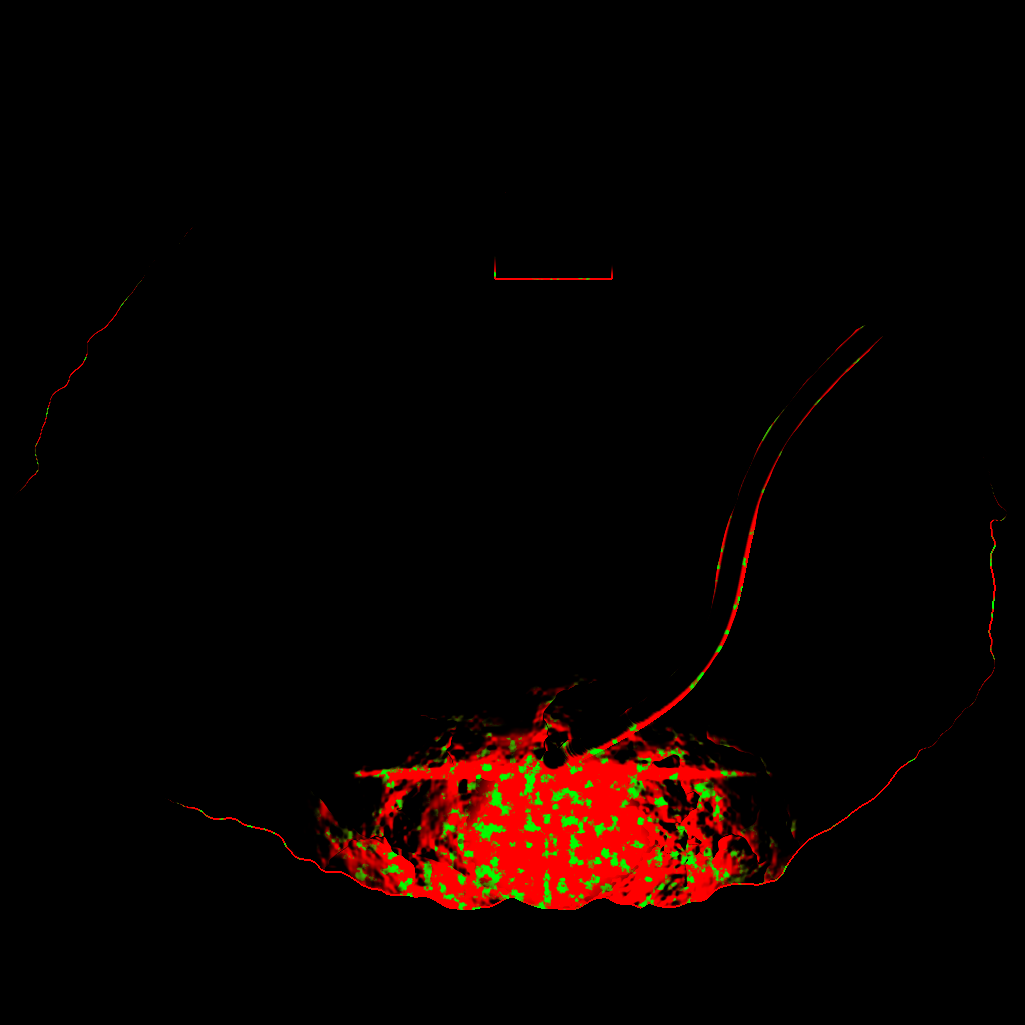
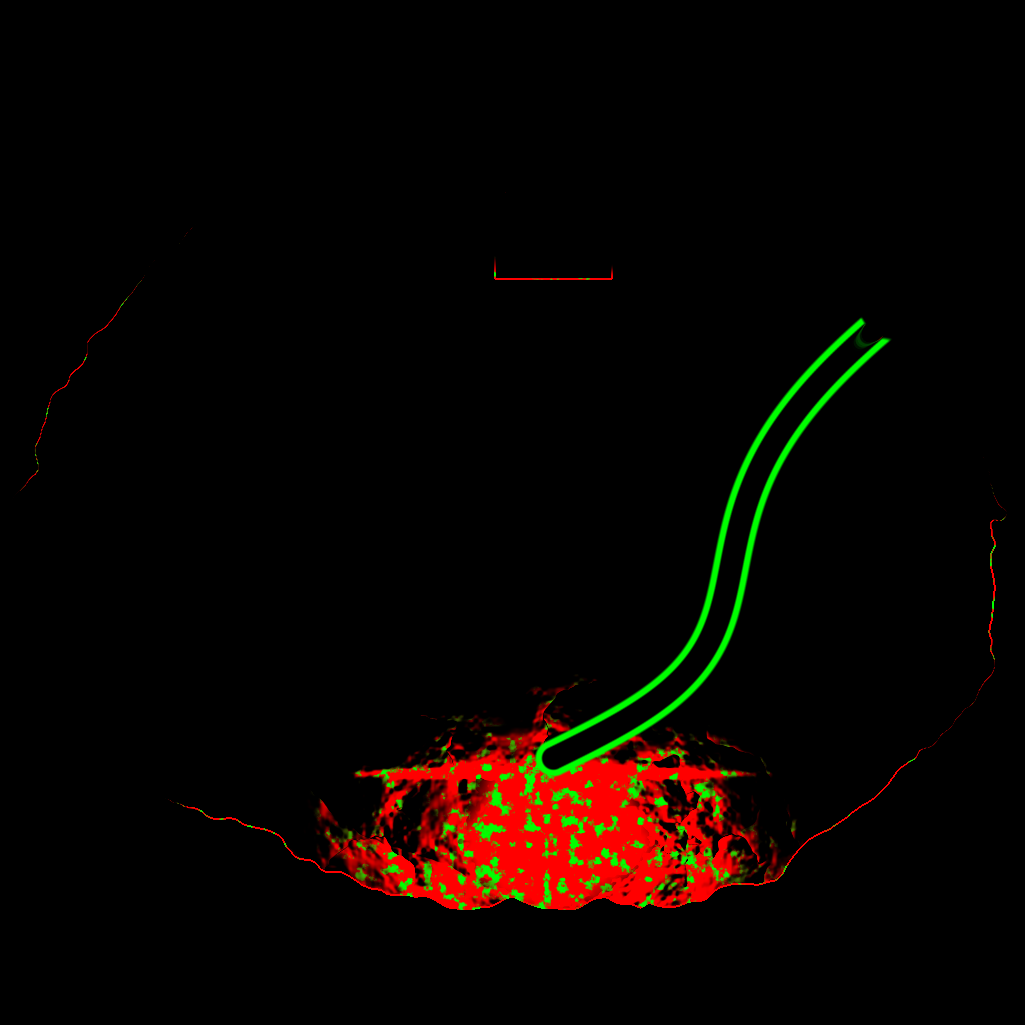
Terrain: dark wet mud at the river's edge and mossy banks above (no sand in the jungle river channel)
Claude-Session: https://claude.ai/code/session_01GMYepabtMqm7ook8nZfRU6

Changed region(s): [[0.4995, 0.3122, 0.8741, 0.7805]]

diff --git a/RexMagnum/Blender/island_export.py b/RexMagnum/Blender/island_export.py
@@ -316,6 +316,17 @@ def splat_maps(h):
     rock = np.maximum(smooth(-up, -0.82, -0.62), smooth(zj, 125, 150))
     W = mix(rock, 4)
     W = mix(rock * smooth(fine, 0.55, 0.7), 5)           # moss on rock
+    # slime river channel: dark wet mud at the water's edge, mossy banks above it (no sand inside the jungle)
+    X, Y = np.meshgrid(np.linspace(-I.SIZE / 2, I.SIZE / 2, res), np.linspace(-I.SIZE / 2, I.SIZE / 2, res))
+    _, _, _, (rx, ry) = I.heightmap()
+    d = np.full(h.shape, 1e9)
+    for x, y in zip(rx[::2], ry[::2]):
+        x0, x1 = int(max((x - 20 + I.SIZE / 2) / cell, 0)), int(min((x + 20 + I.SIZE / 2) / cell, res - 1)) + 1
+        y0, y1 = int(max((y - 20 + I.SIZE / 2) / cell, 0)), int(min((y + 20 + I.SIZE / 2) / cell, res - 1)) + 1
+        d[y0:y1, x0:x1] = np.minimum(d[y0:y1, x0:x1], np.hypot(X[y0:y1, x0:x1] - x, Y[y0:y1, x0:x1] - y))
+    inland = smooth(h, 1.5, 3.0)
+    W = mix((1 - smooth(d, 16.0, 19.0)) * inland, 5)      # mossy banks
+    W = mix((1 - smooth(d, 10.0, 12.5)) * inland, 1)      # wet mud at the edge
     W /= W.sum(-1, keepdims=True)
     return W
 
